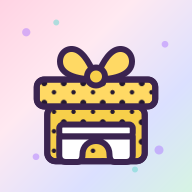
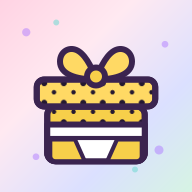
Cuequinha branca vestindo o presente de lado a lado

Changed region(s): [[0.25, 0.625, 0.75, 0.875]]

diff --git a/src/components/ui/GiftArt.tsx b/src/components/ui/GiftArt.tsx
@@ -53,11 +53,10 @@ export function GiftArt({ className = "w-24", animated = false, idPrefix = "gift
         </g>
 
         <g>
-          <rect x="68" y="136" width="84" height="14" rx="5" fill="#ffffff" />
-          <path
-            d="M68 150h84v22c0 5-3 9-8 9h-13c-4 0-6-4-6-9 0-10-7-16-17-16s-17 6-17 16c0 5-2 9-6 9H76c-5 0-8-4-8-9z"
-            fill="#ffffff"
-          />
+          <path d="M46 140h128v36c0 8-6 14-14 14H60c-8 0-14-6-14-14z" fill="#ffffff" />
+          <path d="M52 161h33l13 29H60c-5 0-8-4-8-9z" fill="#f7cf4a" strokeWidth="5" />
+          <path d="M168 161h-33l-13 29h38c5 0 8-4 8-9z" fill="#f7cf4a" strokeWidth="5" />
+          <path d="M46 158h128" fill="none" strokeWidth="5" />
         </g>
 
         <g className={animated ? "animate-lid-lift" : ""}>
